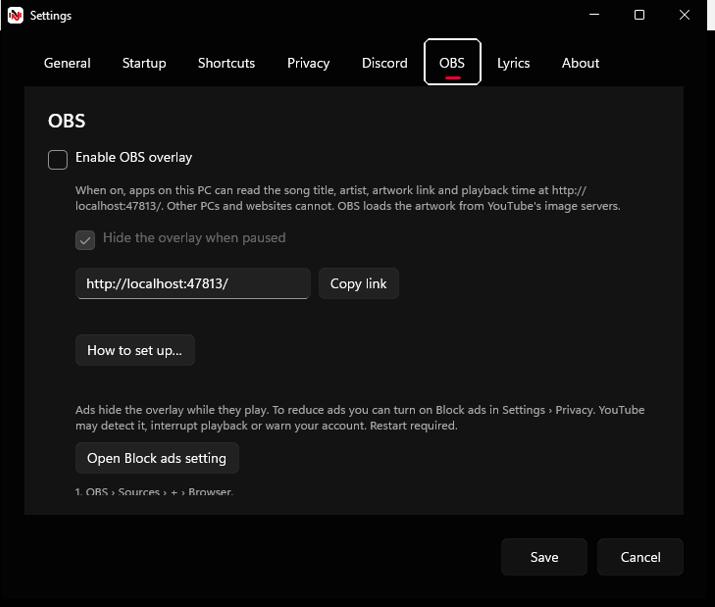
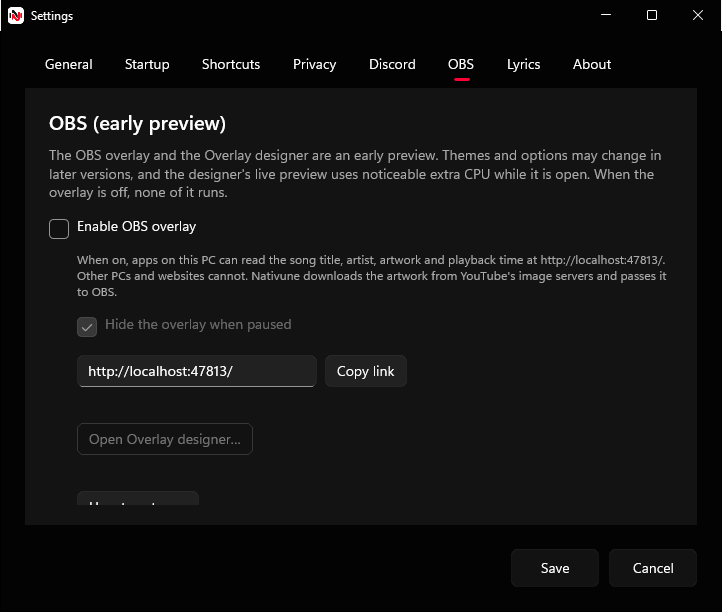
OBS overlay docs: preview reminder, themes and designer showcase, refreshed GIF and Settings screenshots

diff --git a/README.md b/README.md
@@ -105,10 +105,15 @@ Nativune takes a narrower approach. It puts the official website in a native Win
   - **What the card shows:** song title, artist, album art, a time bar while playing, a pause badge while paused (cleared after 10 minutes paused) and a repeat-one badge. Clicking the song title opens that song on YouTube Music, and the optional button does the same; both appear only when Nativune can confirm the playing song's link. Under the artist, a line shows "Nativune <version> · by Hantu-Raya" (or just "Nativune <version>" if you turn the author off in Settings › Discord). The same text appears when hovering the art, and clicking the art opens this repository.
   - The status keeps working while Nativune is hidden in the tray or in Compact, and clears when playback ends, when you turn it off and when you quit.
   - **Limitations:** the Discord desktop app must be running; it works only with the English site language, like Compact; during an ad the status may briefly show or drop the song; and Discord's own activity privacy settings decide who sees it.
-- **OBS overlay (early preview), optional and off by default.** Themes, options and performance are still being worked on and may change; the Overlay designer's live preview uses noticeable extra CPU while it is open. When the overlay is off, none of it runs. Nativune can show the playing song's title, artist, artwork and progress as a small bar in OBS Studio. Tick **Enable OBS overlay** in **Settings › OBS**, click **Copy link** and **Save**, then add a Browser source in OBS with that link (`http://localhost:47813/`), width 440 and height 96. After that, the **OBS overlay** button on the left of the toolbar turns it on or off with one click (a red dot at its corner means it's on), as does **More › Show the OBS overlay**. The overlay hides during ads and, by default, while paused (**Hide the overlay when paused**). While it is on, apps on this PC can read the song title, artist, artwork and playback time; other PCs and websites cannot. Nativune passes the artwork to OBS itself, so no YouTube link or video ID is shared. If OBS was opened first, click **Refresh** on the source once. See the [step-by-step OBS overlay setup guide](docs/obs-overlay.md).
+- **OBS overlay (early preview), optional and off by default.** This is a preview, so things will change: themes, options and performance are still being worked on, and the Overlay designer's live preview uses noticeable extra CPU while it is open. When the overlay is off, none of it runs. Nativune can show the playing song's title, artist, artwork and progress as a small bar in OBS Studio. Tick **Enable OBS overlay** in **Settings › OBS**, click **Copy link** and **Save**, then add a Browser source in OBS with that link (`http://localhost:47813/`), width 440 and height 96. After that, the **OBS overlay** button on the left of the toolbar turns it on or off with one click (a red dot at its corner means it's on), as does **More › Show the OBS overlay**. The overlay hides during ads and, by default, while paused (**Hide the overlay when paused**). While it is on, apps on this PC can read the song title, artist, artwork and playback time; other PCs and websites cannot. Nativune passes the artwork to OBS itself, so no YouTube link or video ID is shared. If OBS was opened first, click **Refresh** on the source once. See the [step-by-step OBS overlay setup guide](docs/obs-overlay.md).
+
+  ![The OBS overlay in OBS Studio: a rounded Pill bar with the song's title and artist over its artwork, a progress fill that follows the song, then the next song](docs/images/obs-overlay/04-overlay.gif)
 
   - **Eight themes and saved looks.** Choose Pill, Matte, Matte light, Standard, Classic, Simple, Album art or Card, and keep up to 16 saved looks, each with its own OBS link.
-  - **Native designer.** While the overlay is running, choose **Settings › OBS › Open Overlay designer…**. Its live, isolated preview shows draft changes without changing OBS until you click **Save look**. Use **Revert changes**, **Duplicate**, **Rename** and **Delete** to manage looks. Colour pickers and **Font family** let you customise supported theme options; an unavailable font shows **Font unavailable; using the theme's default**.
+
+    ![The eight overlay themes with a sample song: Pill, Matte, Matte light, Standard, Classic, Simple, Album art and Card](docs/images/obs-overlay/themes.png)
+
+  - **Native designer.** While the overlay is running, choose **Settings › OBS › Open Overlay designer…**. See the [OBS overlay guide](docs/obs-overlay.md) for setup and a designer screenshot. Its live, isolated preview shows draft changes without changing OBS until you click **Save look**. Use **Revert changes**, **Duplicate**, **Rename** and **Delete** to manage looks. Colour pickers and **Font family** let you customise supported theme options; an unavailable font shows **Font unavailable; using the theme's default**.
   - **Per-look widget options.** Set **Background blur, pixels** (0–32 px), **Played progress brightness, percent** (0–200%), **Unplayed progress brightness, percent** (0–100%) and **Background brightness, percent** (0–200%). Each has **Use theme default**.
   - Blur and background brightness apply only to the song-art backgrounds in Pill, Standard, Classic, Album art and Card. They are inactive with **Custom** colours on Standard, Classic or Card, or with **Show artwork** off on Album art. Copy a look's link with **Copy OBS link** and use the source dimensions shown in the designer; an existing OBS source does not resize automatically.
 - **Time-synced lyrics, on by default.** Nativune shows lyrics that follow the song in YouTube Music's own **Lyrics** tab. The words highlight as they are sung, and a translation can be added.

diff --git a/docs/obs-overlay.md b/docs/obs-overlay.md
@@ -2,7 +2,7 @@
 
 Nativune can show what you're playing as a small "now playing" bar in OBS Studio: the song's title, artist, artwork and a progress fill. You add it to OBS as a Browser source. It is optional and off by default.
 
-> **Early preview.** The overlay and the Overlay designer are still being worked on: themes and options may change in later versions, and the designer's live preview uses noticeable extra CPU while it is open. When the overlay is off, none of it runs.
+> **Early preview: things will change.** The overlay and the Overlay designer are still being worked on. Themes, options, link formats and saved looks may change in later versions, and the designer's live preview uses noticeable extra CPU while it is open. When the overlay is off, none of it runs.
 
 ![The overlay in OBS: a rounded bar with the song's artwork, title and artist, and a fill that follows the song's progress, then changing to the next song](images/obs-overlay/04-overlay.gif)
 
@@ -101,6 +101,10 @@ Once it's set up, you don't need Settings to turn the overlay on or off. The **O
 While the overlay is running, open **Settings › OBS** and click **Open Overlay designer…**. The native **Overlay designer** window lets you create and edit saved looks.
 
 Choose one of eight themes in **Theme**: **Pill**, **Matte**, **Matte light**, **Standard**, **Classic**, **Simple**, **Album art** or **Card**. Each saved look has its own theme and options. You can keep up to 16 saved looks.
+
+![The eight themes with a sample song: Pill, Matte, Matte light, Standard, Classic, Simple, Album art and Card](images/obs-overlay/themes.png)
+
+![The Overlay designer: the early-preview notice, three saved looks (Stream card, Chat pill, Lower third), the look's options and a live Card preview on a checkerboard](images/obs-overlay/designer.png)
 
 ### Create, edit and use a look
 
